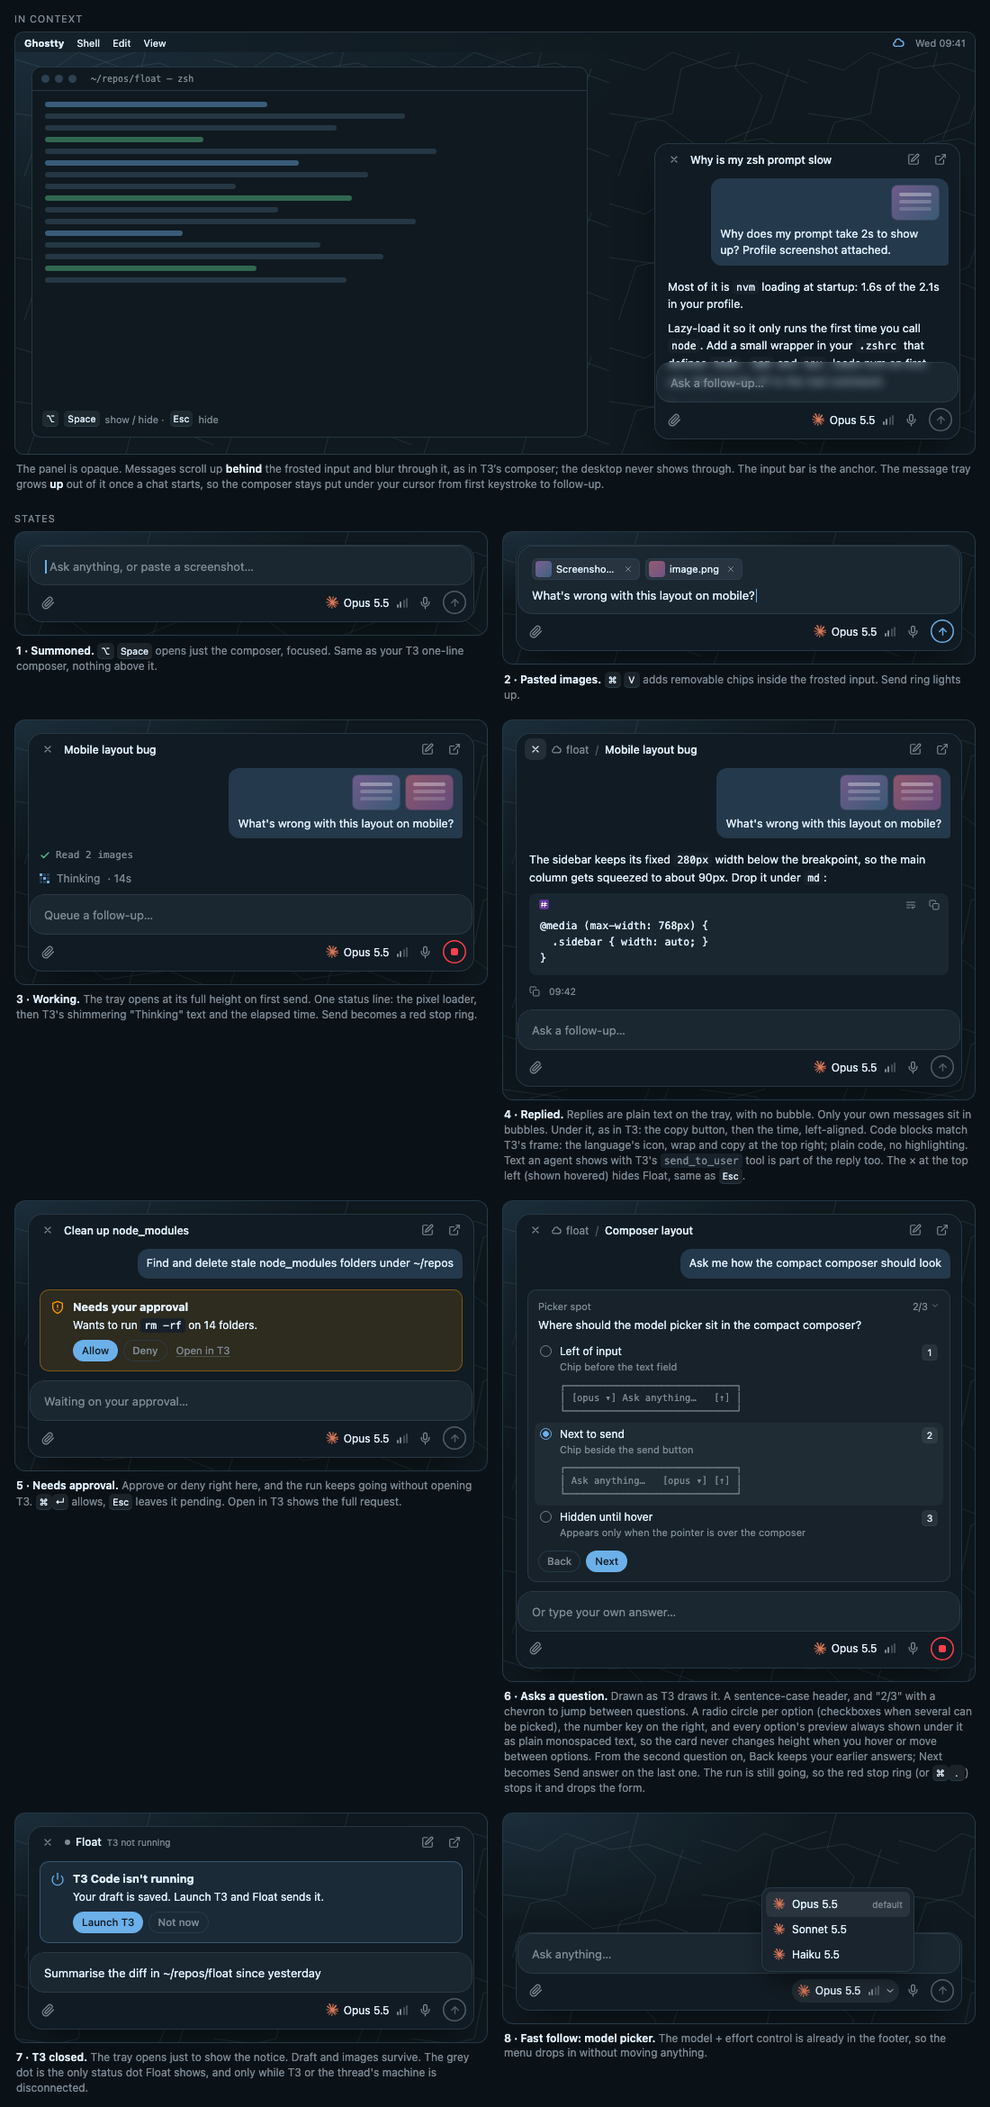
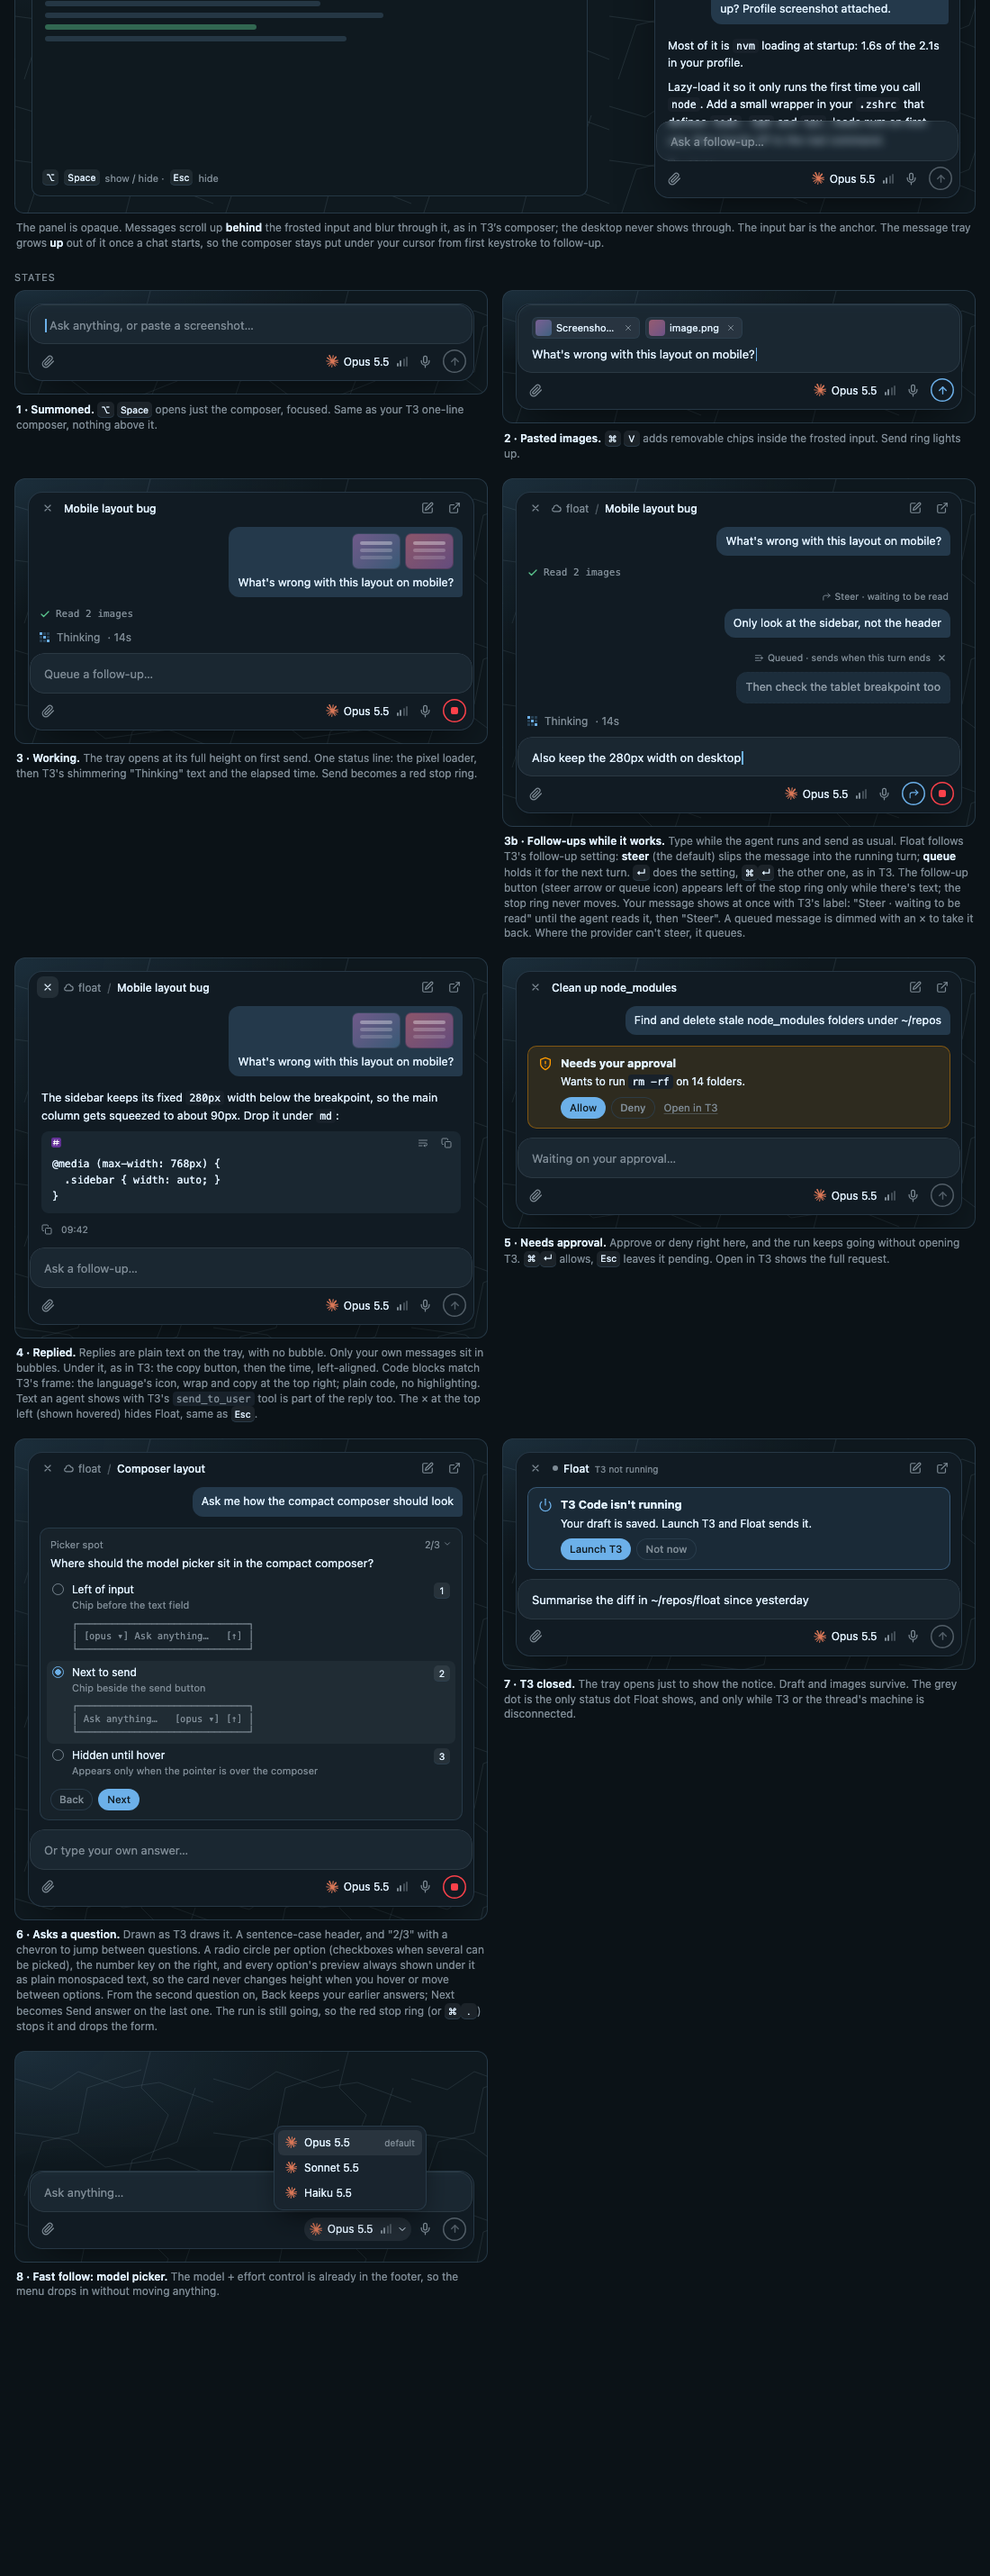
design(composer): steer or queue follow-ups while a run works, and keep the panel size

Changed region(s): [[0.0, 0.0, 0.9891, 0.9983], [0.68, 0.9671, 0.7109, 0.9983], [0.5873, 0.9671, 0.6182, 0.9983]]

diff --git a/design/float-mockups.html b/design/float-mockups.html
@@ -187,6 +187,12 @@ code{font-family:var(--font-mono);font-size:11.5px;background:var(--code-backgro
 .send.off{color:var(--muted-foreground);opacity:.6}
 .send.stop{color:var(--destructive)}
 .send.stop i{width:8px;height:8px;border-radius:2px;background:currentColor}
+/* While a run is going and the input has text: the follow-up button (steer or queue, T3's setting) sits left of the stop ring, so stop never moves. */
+.send.fu{color:var(--primary)}
+/* Steered and queued messages: your bubble with a small muted label above it, as T3 marks them. */
+.fu-lab{align-self:flex-end;display:flex;align-items:center;gap:4px;font-size:10.5px;color:var(--muted-foreground);margin:2px 2px -4px 0}
+.fu-lab svg{width:11px;height:11px}
+.msg-u.queued{opacity:.6;border:1px dashed var(--line)}
 
 .drop{position:absolute;inset:6px;border-radius:12px;border:1.5px dashed color-mix(in oklab, var(--primary) 70%, transparent);background:color-mix(in oklab, var(--primary) 12%, transparent);display:grid;place-items:center;font-size:12px;color:var(--primary);z-index:2}
 .menu{position:absolute;right:52px;bottom:42px;width:170px;border-radius:10px;background:var(--popover);border:1px solid var(--line);box-shadow:0 12px 30px -8px rgba(0,0,0,.6);padding:4px;font-size:12px;z-index:3}
@@ -225,6 +231,8 @@ code{font-family:var(--font-mono);font-size:11.5px;background:var(--code-backgro
     <symbol id="i-up" viewBox="0 0 24 24" fill="none" stroke="currentColor" stroke-width="2.6" stroke-linecap="round" stroke-linejoin="round"><path d="M12 19V5"/><path d="m5 12 7-7 7 7"/></symbol>
     <symbol id="i-clip" viewBox="0 0 24 24" fill="none" stroke="currentColor" stroke-width="2" stroke-linecap="round" stroke-linejoin="round"><path d="m21.4 11.1-9.2 9.2a6 6 0 0 1-8.5-8.5l8.6-8.6a4 4 0 0 1 5.7 5.7l-8.6 8.6a2 2 0 0 1-2.8-2.8l8.5-8.5"/></symbol>
     <symbol id="i-mic" viewBox="0 0 24 24" fill="none" stroke="currentColor" stroke-width="2" stroke-linecap="round" stroke-linejoin="round"><rect x="9" y="2" width="6" height="12" rx="3"/><path d="M19 10v1a7 7 0 0 1-14 0v-1M12 18v4"/></symbol>
+    <symbol id="i-steer" viewBox="0 0 24 24" fill="none" stroke="currentColor" stroke-width="2" stroke-linecap="round" stroke-linejoin="round"><polyline points="15 14 20 9 15 4"/><path d="M4 20v-7a4 4 0 0 1 4-4h12"/></symbol>
+    <symbol id="i-queue" viewBox="0 0 24 24" fill="none" stroke="currentColor" stroke-width="2" stroke-linecap="round" stroke-linejoin="round"><path d="M11 12H3"/><path d="M16 6H3"/><path d="M16 18H3"/><path d="M18 9v6"/><path d="M21 12h-6"/></symbol>
     <symbol id="i-x" viewBox="0 0 24 24" fill="none" stroke="currentColor" stroke-width="2.4" stroke-linecap="round"><path d="M18 6 6 18M6 6l12 12"/></symbol>
     <symbol id="i-wrap" viewBox="0 0 24 24" fill="none" stroke="currentColor" stroke-width="2" stroke-linecap="round" stroke-linejoin="round"><path d="M3 6h18M3 12h15a3 3 0 1 1 0 6h-4"/><path d="m16 16-2 2 2 2"/><path d="M3 18h7"/></symbol>
     <symbol id="i-folder" viewBox="0 0 24 24" fill="none" stroke="currentColor" stroke-width="2" stroke-linecap="round" stroke-linejoin="round"><path d="M3 7a2 2 0 0 1 2-2h4l2 2h8a2 2 0 0 1 2 2v8a2 2 0 0 1-2 2H5a2 2 0 0 1-2-2Z"/></symbol>
@@ -266,7 +274,9 @@ code{font-family:var(--font-mono);font-size:11.5px;background:var(--code-backgro
 <script>
 const ic = (id) => `<svg><use href="#i-${id}"/></svg>`;
 function footer({send='off', modelOpen=false}={}){
-  const s = send==='stop' ? `<span class="send stop"><i></i></span>` : `<span class="send ${send==='on'?'':'off'}">${ic('up')}</span>`;
+  const s = send==='stop' ? `<span class="send stop"><i></i></span>` :
+    send==='steer' ? `<span class="send fu">${ic('steer')}</span><span class="send stop"><i></i></span>` :
+    send==='queue' ? `<span class="send fu">${ic('queue')}</span><span class="send stop"><i></i></span>` : `<span class="send ${send==='on'?'':'off'}">${ic('up')}</span>`;
   return `<div class="tray-foot"><div class="foot">
     <span class="ctl">${ic('clip')}</span><span class="spacer"></span>
     <span class="ctl model ${modelOpen?'open':''}"><svg class="claude"><use href="#i-burst"/></svg>Opus 5.5<span class="bars"><i class="on" style="height:4px"></i><i class="on" style="height:7px"></i><i style="height:9px"></i><i style="height:11px"></i></span>${modelOpen?`<svg style="width:12px;height:12px"><use href="#i-chev"/></svg>`:''}</span>
@@ -304,6 +314,9 @@ const states = [
   [shell({tray: trayTop({title:'Mobile layout bug', body:`<div class="msg-u"><div class="thumbs">${thumb()}${thumb(60)}</div>What's wrong with this layout on mobile?</div><div class="step">${ic('check')}Read 2 images</div><div class="working"><span class="pix"><i></i><i></i><i></i><i></i><i></i><i></i><i></i><i></i><i></i></span><span class="shim" data-t="Thinking">Thinking</span><span>· 14s</span></div>`}),
      input: ph('Queue a follow-up…'), send:'stop'}),
    `<b>3 · Working.</b> The tray opens at its full height on first send. One status line: the pixel loader, then T3's shimmering "Thinking" text and the elapsed time. Send becomes a red stop ring.`],
+  [shell({tray: trayTop({title:'Mobile layout bug', project:'float', projectIcon:'float', body:`<div class="msg-u">What's wrong with this layout on mobile?</div><div class="step">${ic('check')}Read 2 images</div><div class="fu-lab">${ic('steer')}Steer · waiting to be read</div><div class="msg-u">Only look at the sidebar, not the header</div><div class="fu-lab">${ic('queue')}Queued · sends when this turn ends<span class="ib" style="width:16px;height:16px">${ic('x')}</span></div><div class="msg-u queued">Then check the tablet breakpoint too</div><div class="working"><span class="pix"><i></i><i></i><i></i><i></i><i></i><i></i><i></i><i></i><i></i></span><span class="shim" data-t="Thinking">Thinking</span><span>· 14s</span></div>`}),
+     input: `Also keep the 280px width on desktop<span class="caret"></span>`, send:'steer'}),
+   `<b>3b · Follow-ups while it works.</b> Type while the agent runs and send as usual. Float follows T3's follow-up setting: <b>steer</b> (the default) slips the message into the running turn; <b>queue</b> holds it for the next turn. <span class="kbd">↵</span> does the setting, <span class="kbd">⌘</span><span class="kbd">↵</span> the other one, as in T3. The follow-up button (steer arrow or queue icon) appears left of the stop ring only while there's text; the stop ring never moves. Your message shows at once with T3's label: "Steer · waiting to be read" until the agent reads it, then "Steer". A queued message is dimmed with an × to take it back. Where the provider can't steer, it queues.`],
   [shell({tray: trayTop({title:'Mobile layout bug', project:'float', projectIcon:'float', closeHover:true, body:`<div class="msg-u"><div class="thumbs">${thumb()}${thumb(60)}</div>What's wrong with this layout on mobile?</div>` +
      reply(['The sidebar keeps its fixed <code>280px</code> width below the breakpoint, so the main column gets squeezed to about 90px. Drop it under <code>md</code>:',
        `</p><div class="cb"><div class="ch"><svg class="lg" viewBox="0 0 24 24"><rect x="2" y="2" width="20" height="20" rx="4" fill="#663399"/><path d="M9 7 7.6 17M14.4 7 13 17M6.5 10.2h11M6 13.8h11" stroke="#fff" stroke-width="1.8" stroke-linecap="round"/></svg><span class="sp"></span><span class="ib">${ic('wrap')}</span><span class="ib">${ic('copy')}</span></div><pre><span class="tk-k">@media</span> (<span class="tk-f">max-width</span>: <span class="tk-s">768px</span>) {

diff --git a/design/README.md b/design/README.md
@@ -37,8 +37,9 @@ The colours come from Dylan's nordbones T3 theme. So do the pixel thinking loade
 - **Markdown:** replies and your own messages render GitHub-flavoured Markdown as T3 does (`apps/web/src/components/ChatMarkdown.tsx` with `remark-gfm`): paragraphs, headings, bold, italic, strikethrough, inline code, links and autolinks, nested bulleted and numbered lists, task lists, blockquotes, horizontal rules, tables, and code blocks. Spacing, sizes, list markers, quote bars and table borders copy T3's `.chat-markdown` rules in `apps/web/src/index.css`, scaled to Float's 13.5pt body text. Tables scroll sideways rather than squeezing. Images show as links. Maths and `<details>` show as plain text. Partial Markdown while a reply streams (an unclosed fence or table) renders sensibly and never flickers between layouts. Parsing uses Apple's `swift-markdown` (cmark-gfm), the one allowed dependency for this.
 - **Skills and commands:** as in T3's composer. Typing `$` at the start of a word opens the skills available to the chosen model's provider. Typing `/` at the start of a word opens T3's own commands, the provider's slash commands, and skills listed as `/skill:name`. `/clear`, `/side` and `/btw` only show at the start of the message. The menu spans the composer just above the input, at most 288pt tall. It uses one line per item: an icon, the name in medium weight, a muted description, and the provider's mark on the right. Items are grouped under muted headers in the `/` menu. Typing filters it, the top match sits in the selection pill with a `↵` key cap, ↑↓ move, Return or Tab picks, and Esc closes. A picked skill becomes a chip in the input (accent text on a light accent fill, radius 6) that Backspace removes whole. It's sent with the prompt the way T3 sends it. A picked command runs or inserts as T3 would. See `design/pickers.png` states 9–11.
 - **Questions and approvals:** when an agent asks you something through T3's ask-user-question tool, Float shows a question card in the tray, drawn as T3 draws it (state 6): the header in sentence case, muted; "2/3" with a chevron at the top right that jumps between questions; the question in regular weight; then one row per option with a radio circle (a checkbox when several can be picked), the label, the muted description, and the number key on the right. An option's `preview` always shows under it as plain monospaced text in the muted colour, for every option at once, never only on hover. **Nothing in the card changes size on hover or keyboard movement**: hover and the highlight only tint the row, so the panel never jumps. While a question or approval waits, the run is still going, so the send ring is the red stop ring: Stop or ⌘. interrupts the run and drops the card unanswered. Number keys pick, Return confirms, and typing in the input answers in your own words when the question allows it. When there are several questions, every question after the first has a Back button (ghost style, to the left of Next or Send answer, also ⌘[) that returns to the previous question with its answer still picked. Answers are kept until you send them all, and nothing goes to T3 until the last question is confirmed. The answer goes back through T3. Tool approvals are answered in Float too (state 5): the approval card shows what the agent wants to do, with Allow (primary, ⌘↵), Deny, and a small Open in T3 link for the full request, so the run keeps going without opening T3. Approving needs a T3 credential that is broader than approve/deny (`orchestration:operate`, which can also start runs), so it's off until you turn it on once: the first approval card offers "Answer approvals in Float", which explains that in one sentence; turning it on has Float issue a dedicated credential with T3's own CLI and keep it only in the Keychain. Turning it off (in the menu bar cloud's menu) revokes it. Until it's on, and for threads on other machines, the card offers Open in T3.
+- **Follow-ups while it works:** while a run is going you can keep typing and send, as in T3 (state 3b). Float follows T3's follow-up setting (`followUpBehavior`, default steer). Steer puts the message into the running turn; queue holds it for the next turn. Return does the setting and ⌘Return the other one. Where the provider can't steer (T3's `supportsActiveSteering`, or a compaction that blocks it), the message queues. While there's text, a follow-up button (lucide `corner-up-right` for steer, `list-plus` for queue, in the send ring style) sits left of the stop ring; the stop ring stays put. Your message appears in the tray at once with T3's label above the bubble: "Steer · waiting to be read" until the agent reads it, then "Steer". A queued message is dimmed with a dashed hairline and an × that takes it back before it sends. Stop still interrupts the run. While a question or approval card waits, typing answers the card, as before, rather than steering.
 - **Footer:** paperclip on the left; provider icon, model and send/stop on the right.
-- **Panel size:** once a chat has a tray, the panel opens straight to its full size, even for the first message, and never grows or shrinks as messages stream in. You set that size yourself: drag the top edge to change the height, or either top corner to change the height and the width together. The bottom edge and the input stay anchored, so dragging moves only the top (and the dragged side). Grab zones: 4pt along the top edge with the up-down cursor, 10×10pt at the top corners with the diagonal cursor. Limits: height 240pt to 85% of the screen's visible height; width 420pt to 900pt. Float remembers the size. Double-clicking the top edge resets it to the default (560pt tall, today's width). The compact state, with no tray, keeps its width and never resizes.
+- **Panel size:** once a chat has a tray, the panel opens straight to its full size, even for the first message, and never grows or shrinks as messages stream in. You set that size yourself: drag the top edge to change the height, or either top corner to change the height and the width together. The bottom edge and the input stay anchored, so dragging moves only the top (and the dragged side). Grab zones: 4pt along the top edge with the up-down cursor, 10×10pt at the top corners with the diagonal cursor. Limits: height 240pt to 85% of the screen's visible height; width 420pt to 900pt. Float remembers the size for good: it survives hiding, ⌘N, a new chat from the compact state, quitting and relaunching, and a rebuild of the app. The compact state uses the saved width too, so the input never jumps between widths. Double-clicking the top edge resets it to the default (560pt tall, today's width). The compact state, with no tray, uses the saved width and never changes height.
 - **Dragging:** you can drag the window by the header, the footer's empty space, and a thin strip along the top edge of the input (6pt, arrow cursor), which matters in the compact state where there's no header.
 - **Pickers:** the model, project and Run on pickers keep one size and one anchor while open, whatever tab or query is showing, so they never jump. The model picker is a fixed 300×360pt and its bottom-right corner stays pinned above the model button; the list scrolls inside it. The current item sits in a filled pill in nordbones `secondary` (`#1C3349`, radius 8), as T3 marks a selected chip, with no checkmark. Hover and the keyboard highlight use the text colour at 6%. Trailing status dots line up in one column. With the search field focused, ↑↓ move the highlight through the list, Return picks the highlighted item, and Esc closes the picker (Esc closes every Float menu and picker before it hides Float). No hint rows and no ⌘1–9 tab shortcuts; click a tab to switch. In the model picker, clicking an effort segment sets that model's effort. The effort row always starts with its "Effort" label, and its segments fit inside the picker without clipping, even for long values like "Ultrathink". The model picker has no "Use T3 default" row: you always pick a specific model.
 - **Project icons:** every place Float shows a project (the header crumb, the Project chip in the context row, and each row of the project picker) shows its icon exactly as T3's `ProjectFavicon` resolves it (`apps/web/src/components/ProjectFavicon.tsx`). First the project's own icon setting from T3: a monogram (its text and colour), an emoji, or a lucide icon (its name and colour). Then the checkout's favicon, found the way T3's server finds it, for projects on other machines too. Otherwise a monogram tile built from the project's name with T3's `deriveProjectIdentity` (`apps/web/src/projectIdentity.ts`): two letters, in a colour hashed from the name. A monogram tile is the colour's text in a bold monospaced face on the same colour at 14%, with a 25% corner radius; colours are T3's dark-mode shades (Tailwind `-400`). Favicons get the same 25% radius. Sizes: 11pt in the header, 12pt in the chip, 13pt in picker rows. The plain folder is gone; "No project" keeps its pencil. Icons load without blocking the picker and are cached per machine and checkout, so reopening the picker never flashes. See `design/pickers.png` states 1b, 3 and 4.
